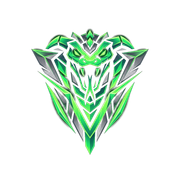
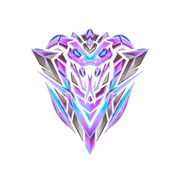
change the color palette

Changed region(s): [[0.1667, 0.1667, 0.8333, 0.8611]]

diff --git a/app/components/home/OrgEmblemHero.tsx b/app/components/home/OrgEmblemHero.tsx
@@ -38,8 +38,8 @@ export default function OrgEmblemHero(): JSX.Element {
         className="pointer-events-none absolute h-[360px] w-[360px] rounded-full opacity-60 blur-[100px] transition-all duration-700 sm:h-[450px] sm:w-[450px]"
         style={{
           background: hovered
-            ? "radial-gradient(circle, rgba(207, 107, 255,0.55) 0%, rgba(217, 70, 239,0.3) 45%, transparent 70%)"
-            : "radial-gradient(circle, rgba(207, 107, 255,0.32) 0%, rgba(217, 70, 239,0.18) 45%, transparent 70%)",
+            ? "radial-gradient(circle, rgba(192, 132, 252,0.55) 0%, rgba(217, 70, 239,0.3) 45%, transparent 70%)"
+            : "radial-gradient(circle, rgba(192, 132, 252,0.32) 0%, rgba(217, 70, 239,0.18) 45%, transparent 70%)",
           transform: `translate(${tilt.x * 0.4}px, ${tilt.y * -0.4}px) scale(${hovered ? 1.15 : 1.0})`,
         }}
       />
@@ -58,7 +58,7 @@ export default function OrgEmblemHero(): JSX.Element {
           aria-hidden
           className={`pointer-events-none absolute h-[330px] w-[330px] rounded-full border border-venom/20 transition-all duration-1000 sm:h-[410px] sm:w-[410px] ${
             hovered
-              ? "scale-110 rotate-90 border-venom/50 shadow-[0_0_35px_rgba(207, 107, 255,0.4)]"
+              ? "scale-110 rotate-90 border-venom/50 shadow-[0_0_35px_rgba(192, 132, 252,0.4)]"
               : "scale-100 rotate-0"
           }`}
         />
@@ -75,8 +75,8 @@ export default function OrgEmblemHero(): JSX.Element {
         <div
           className={`relative h-[310px] w-[310px] sm:h-[390px] sm:w-[390px] transition-all duration-500 ${
             hovered
-              ? "scale-105 drop-shadow-[0_0_45px_rgba(207, 107, 255,0.95)]"
-              : "scale-100 drop-shadow-[0_0_25px_rgba(207, 107, 255,0.6)]"
+              ? "scale-105 drop-shadow-[0_0_45px_rgba(192, 132, 252,0.95)]"
+              : "scale-100 drop-shadow-[0_0_25px_rgba(192, 132, 252,0.6)]"
           }`}
         >
           <Image

diff --git a/app/globals.css b/app/globals.css
@@ -4,12 +4,12 @@
   --background: #0a0713;
   --surface: #14101f;
   --surface-raised: #1b1530;
-  --venom: #a259ff;
-  --venom-bright: #cf6bff;
+  --venom: #a855f7;
+  --venom-bright: #c084fc;
   --toxic: #d946ef;
   --foreground: #f1ecfb;
   --muted: #9b91b0;
-  --line: rgba(162, 89, 255, 0.15);
+  --line: rgba(168, 85, 247, 0.15);
 }
 
 @theme inline {
@@ -34,10 +34,10 @@
 @keyframes pulse-glow {
   0%,
   100% {
-    box-shadow: 0 0 18px rgba(162, 89, 255, 0.25);
+    box-shadow: 0 0 18px rgba(168, 85, 247, 0.25);
   }
   50% {
-    box-shadow: 0 0 34px rgba(162, 89, 255, 0.5);
+    box-shadow: 0 0 34px rgba(168, 85, 247, 0.5);
   }
 }
 
@@ -84,7 +84,7 @@
 
 body {
   background:
-    radial-gradient(ellipse 80% 50% at 50% -20%, rgba(162, 89, 255, 0.08), transparent),
+    radial-gradient(ellipse 80% 50% at 50% -20%, rgba(168, 85, 247, 0.08), transparent),
     radial-gradient(ellipse 60% 40% at 90% 110%, rgba(217, 70, 239, 0.07), transparent),
     var(--background);
   color: var(--foreground);
@@ -92,7 +92,7 @@ body {
 }
 
 ::selection {
-  background: rgba(162, 89, 255, 0.3);
+  background: rgba(168, 85, 247, 0.3);
   color: var(--foreground);
 }
 
@@ -110,7 +110,7 @@ body {
 }
 
 ::-webkit-scrollbar-thumb:hover {
-  background: rgba(162, 89, 255, 0.4);
+  background: rgba(168, 85, 247, 0.4);
 }
 
 @utility clip-notch {
@@ -123,13 +123,13 @@ body {
 
 @utility grid-bg {
   background-image:
-    linear-gradient(rgba(162, 89, 255, 0.04) 1px, transparent 1px),
-    linear-gradient(90deg, rgba(162, 89, 255, 0.04) 1px, transparent 1px);
+    linear-gradient(rgba(168, 85, 247, 0.04) 1px, transparent 1px),
+    linear-gradient(90deg, rgba(168, 85, 247, 0.04) 1px, transparent 1px);
   background-size: 44px 44px;
 }
 
 @utility text-glow {
-  text-shadow: 0 0 22px rgba(162, 89, 255, 0.45);
+  text-shadow: 0 0 22px rgba(168, 85, 247, 0.45);
 }
 
 @media (prefers-reduced-motion: reduce) {

diff --git a/app/components/home/HeroBanner.tsx b/app/components/home/HeroBanner.tsx
@@ -37,7 +37,7 @@ const HeroBanner = (): JSX.Element => {
         className="pointer-events-none absolute top-1/2 left-1/2 h-[580px] w-[580px] -translate-x-1/2 -translate-y-1/2 rounded-full opacity-60 blur-[130px]"
         style={{
           background:
-            "radial-gradient(circle, rgba(162, 89, 255,0.22) 0%, rgba(217, 70, 239,0.14) 50%, transparent 75%)",
+            "radial-gradient(circle, rgba(168, 85, 247,0.22) 0%, rgba(217, 70, 239,0.14) 50%, transparent 75%)",
           transform: `translate(calc(-50% + ${tilt.x * 40}px), calc(-50% + ${tilt.y * 40}px))`,
         }}
       />
@@ -45,7 +45,7 @@ const HeroBanner = (): JSX.Element => {
         aria-hidden
         className="pointer-events-none absolute top-1/4 right-10 h-[420px] w-[420px] rounded-full opacity-40 blur-[110px]"
         style={{
-          background: "radial-gradient(circle, rgba(207, 107, 255,0.22) 0%, transparent 70%)",
+          background: "radial-gradient(circle, rgba(192, 132, 252,0.22) 0%, transparent 70%)",
           transform: `translate(${tilt.x * -25}px, ${tilt.y * -20}px)`,
         }}
       />
@@ -61,7 +61,7 @@ const HeroBanner = (): JSX.Element => {
           }}
         >
           <div className="mb-4 inline-flex items-center gap-3 rounded-full border border-venom/30 bg-surface/70 px-3.5 py-1 backdrop-blur-md">
-            <span className="h-2 w-2 rounded-full bg-venom shadow-[0_0_8px_rgba(207, 107, 255,0.8)]" />
+            <span className="h-2 w-2 rounded-full bg-venom shadow-[0_0_8px_rgba(192, 132, 252,0.8)]" />
             <span className="font-display text-xs font-bold tracking-[0.25em] text-venom uppercase">
               Mobile Legends: Bang Bang Squad
             </span>

diff --git a/app/components/roster/PlayerCard.tsx b/app/components/roster/PlayerCard.tsx
@@ -17,15 +17,15 @@ const PlayerCard = ({ player }: PlayerCardProps): JSX.Element => {
     <TiltCard className="h-full">
       <Link
         href={`/roster/${player.id}`}
-        className="clip-notch group flex h-full flex-col gap-4 bg-surface p-5 ring-1 ring-line transition-shadow duration-300 hover:shadow-[0_0_28px_rgba(162, 89, 255,0.15)]"
+        className="clip-notch group flex h-full flex-col gap-4 bg-surface p-5 ring-1 ring-line transition-shadow duration-300 hover:shadow-[0_0_28px_rgba(168, 85, 247,0.15)]"
       >
         <div className="flex items-start justify-between">
           <div
             className="clip-notch flex h-16 w-16 items-center justify-center font-display text-lg font-black"
             style={{
-              color: player.captain ? "#a259ff" : "#f1ecfb",
+              color: player.captain ? "#a855f7" : "#f1ecfb",
               background: `linear-gradient(135deg, ${player.role === "Jungler" ? "#f43f5e22" : "#d946ef22"}, #14101f)`,
-              boxShadow: `inset 0 0 0 1px rgba(162, 89, 255,0.25)`,
+              boxShadow: `inset 0 0 0 1px rgba(168, 85, 247,0.25)`,
             }}
           >
             {initials}
@@ -55,7 +55,7 @@ const PlayerCard = ({ player }: PlayerCardProps): JSX.Element => {
           </div>
           <div className="h-1.5 w-full overflow-hidden bg-background">
             <div
-              className="h-full bg-gradient-to-r from-venom/60 to-venom shadow-[0_0_8px_rgba(162, 89, 255,0.6)]"
+              className="h-full bg-gradient-to-r from-venom/60 to-venom shadow-[0_0_8px_rgba(168, 85, 247,0.6)]"
               style={{ width: `${player.winRate}%` }}
             />
           </div>

diff --git a/app/components/matches/MatchCard.tsx b/app/components/matches/MatchCard.tsx
@@ -22,13 +22,13 @@ const MatchCard = ({ match }: MatchCardProps): JSX.Element => {
       href={`/matches/${match.id}`}
       className={`clip-notch group relative flex flex-wrap items-center gap-x-5 gap-y-3 bg-surface p-4 ring-1 transition-all duration-300 sm:flex-nowrap ${
         win
-          ? "ring-line hover:shadow-[0_0_24px_rgba(162, 89, 255,0.15)]"
+          ? "ring-line hover:shadow-[0_0_24px_rgba(168, 85, 247,0.15)]"
           : "ring-red-500/20 hover:shadow-[0_0_24px_rgba(244,63,94,0.12)]"
       }`}
     >
       <span
         className={`absolute top-0 left-0 h-full w-0.75 ${win ? "bg-venom" : "bg-red-500"}`}
-        style={{ boxShadow: win ? "0 0 10px rgba(162, 89, 255,0.7)" : "0 0 10px rgba(244,63,94,0.7)" }}
+        style={{ boxShadow: win ? "0 0 10px rgba(168, 85, 247,0.7)" : "0 0 10px rgba(244,63,94,0.7)" }}
       />
 
       <div className="flex min-w-14 flex-col items-center">
@@ -65,7 +65,7 @@ const MatchCard = ({ match }: MatchCardProps): JSX.Element => {
         {mvp && (
           <span
             title={`MVP: ${mvp.ign}`}
-            className="hidden clip-notch-sm bg-venom/10 px-2 py-1 font-display text-[10px] font-bold tracking-widest text-venom uppercase ring-1 ring-venom/30 group-hover:shadow-[0_0_12px_rgba(162, 89, 255,0.4)] sm:block"
+            className="hidden clip-notch-sm bg-venom/10 px-2 py-1 font-display text-[10px] font-bold tracking-widest text-venom uppercase ring-1 ring-venom/30 group-hover:shadow-[0_0_12px_rgba(168, 85, 247,0.4)] sm:block"
           >
             MVP {mvp.ign}
           </span>

diff --git a/app/contact/page.tsx b/app/contact/page.tsx
@@ -60,7 +60,7 @@ export default function ContactPage() {
                 {...(card.action.external
                   ? { target: "_blank", rel: "noopener noreferrer" }
                   : {})}
-                className="clip-notch-sm mt-5 inline-block bg-surface-raised px-4 py-2.5 text-center font-display text-[11px] font-bold tracking-wider text-foreground uppercase ring-1 ring-line transition-all hover:text-venom hover:shadow-[0_0_16px_rgba(162, 89, 255,0.25)] hover:ring-venom/50"
+                className="clip-notch-sm mt-5 inline-block bg-surface-raised px-4 py-2.5 text-center font-display text-[11px] font-bold tracking-wider text-foreground uppercase ring-1 ring-line transition-all hover:text-venom hover:shadow-[0_0_16px_rgba(168, 85, 247,0.25)] hover:ring-venom/50"
               >
                 {card.action.label}
               </a>
@@ -99,7 +99,7 @@ export default function ContactPage() {
                 href={social.href}
                 target="_blank"
                 rel="noopener noreferrer"
-                className="clip-notch group bg-surface p-6 text-center ring-1 ring-line transition-all hover:shadow-[0_0_22px_rgba(162, 89, 255,0.18)] hover:ring-venom/40"
+                className="clip-notch group bg-surface p-6 text-center ring-1 ring-line transition-all hover:shadow-[0_0_22px_rgba(168, 85, 247,0.18)] hover:ring-venom/40"
               >
                 <p className="font-display text-base font-bold tracking-wider uppercase transition-colors group-hover:text-venom">
                   {social.label}

diff --git a/app/matches/[id]/page.tsx b/app/matches/[id]/page.tsx
@@ -89,7 +89,7 @@ export default async function MatchPage(props: PageProps<"/matches/[id]">) {
           {mvp && (
             <Link
               href={`/roster/${mvp.id}`}
-              className="clip-notch group flex items-center gap-4 bg-surface p-5 ring-1 ring-venom/30 transition-shadow hover:shadow-[0_0_24px_rgba(162, 89, 255,0.18)]"
+              className="clip-notch group flex items-center gap-4 bg-surface p-5 ring-1 ring-venom/30 transition-shadow hover:shadow-[0_0_24px_rgba(168, 85, 247,0.18)]"
             >
               <span className="clip-notch-sm flex h-12 w-12 shrink-0 items-center justify-center bg-venom/15 font-display text-base font-black text-venom ring-1 ring-venom/40">
                 MVP
@@ -148,7 +148,7 @@ export default async function MatchPage(props: PageProps<"/matches/[id]">) {
                   {gameMvp && (
                     <Link
                       href={`/roster/${gameMvp.id}`}
-                      className="clip-notch-sm bg-surface-raised px-2 py-1 font-display text-[10px] font-bold tracking-widest text-venom uppercase ring-1 ring-venom/25 transition-shadow hover:shadow-[0_0_10px_rgba(162, 89, 255,0.35)]"
+                      className="clip-notch-sm bg-surface-raised px-2 py-1 font-display text-[10px] font-bold tracking-widest text-venom uppercase ring-1 ring-venom/25 transition-shadow hover:shadow-[0_0_10px_rgba(168, 85, 247,0.35)]"
                     >
                       MVP {gameMvp.ign}
                     </Link>

diff --git a/app/components/gallery/GalleryGrid.tsx b/app/components/gallery/GalleryGrid.tsx
@@ -85,7 +85,7 @@ const GalleryGrid = ({ items }: GalleryGridProps): JSX.Element => {
             onClick={() => setCategory(c)}
             className={`clip-notch-sm px-4 py-2 font-display text-[11px] font-bold tracking-[0.18em] uppercase transition-all duration-300 ${
               category === c
-                ? "bg-venom text-background shadow-[0_0_18px_rgba(162, 89, 255,0.4)]"
+                ? "bg-venom text-background shadow-[0_0_18px_rgba(168, 85, 247,0.4)]"
                 : "bg-surface text-muted ring-1 ring-line hover:text-foreground hover:ring-venom/40"
             }`}
           >
@@ -101,7 +101,7 @@ const GalleryGrid = ({ items }: GalleryGridProps): JSX.Element => {
             type="button"
             onClick={() => setLightbox(i)}
             aria-label={item.caption ?? "Open gallery item"}
-            className={`clip-notch animate-fade-up group relative overflow-hidden ring-1 ring-line transition-shadow duration-300 hover:shadow-[0_0_26px_rgba(162, 89, 255,0.22)] hover:ring-venom/40 ${
+            className={`clip-notch animate-fade-up group relative overflow-hidden ring-1 ring-line transition-shadow duration-300 hover:shadow-[0_0_26px_rgba(168, 85, 247,0.22)] hover:ring-venom/40 ${
               i % 7 === 0 ? "row-span-2" : ""
             } ${i % 5 === 2 ? "sm:col-span-2" : ""}`}
             style={{ animationDelay: `${i * 60}ms` }}

diff --git a/app/page.tsx b/app/page.tsx
@@ -116,7 +116,7 @@ export default function Home() {
               className="absolute inset-0 opacity-60"
               style={{
                 background:
-                  "radial-gradient(ellipse 60% 80% at 50% 120%, rgba(162, 89, 255,0.14), transparent), radial-gradient(ellipse 40% 60% at 85% -10%, rgba(217, 70, 239,0.12), transparent)",
+                  "radial-gradient(ellipse 60% 80% at 50% 120%, rgba(168, 85, 247,0.14), transparent), radial-gradient(ellipse 40% 60% at 85% -10%, rgba(217, 70, 239,0.12), transparent)",
               }}
             />
             <div className="relative">
@@ -134,7 +134,7 @@ export default function Home() {
                     href={social.href}
                     target="_blank"
                     rel="noopener noreferrer"
-                    className="clip-notch-sm bg-surface-raised px-5 py-2.5 font-display text-xs font-bold tracking-wider text-muted uppercase ring-1 ring-line transition-all hover:text-venom hover:shadow-[0_0_16px_rgba(162, 89, 255,0.3)] hover:ring-venom/50"
+                    className="clip-notch-sm bg-surface-raised px-5 py-2.5 font-display text-xs font-bold tracking-wider text-muted uppercase ring-1 ring-line transition-all hover:text-venom hover:shadow-[0_0_16px_rgba(168, 85, 247,0.3)] hover:ring-venom/50"
                   >
                     {social.label}
                   </a>

diff --git a/app/components/layout/Footer.tsx b/app/components/layout/Footer.tsx
@@ -63,7 +63,7 @@ const Footer = (): JSX.Element => {
                 target="_blank"
                 rel="noopener noreferrer"
                 aria-label={social.label}
-                className="clip-notch-sm flex h-10 w-10 items-center justify-center bg-surface text-muted ring-1 ring-line transition-all hover:text-venom hover:shadow-[0_0_16px_rgba(162, 89, 255,0.35)] hover:ring-venom/50"
+                className="clip-notch-sm flex h-10 w-10 items-center justify-center bg-surface text-muted ring-1 ring-line transition-all hover:text-venom hover:shadow-[0_0_16px_rgba(168, 85, 247,0.35)] hover:ring-venom/50"
               >
                 {social.icon}
               </a>
@@ -98,7 +98,7 @@ const Footer = (): JSX.Element => {
           </p>
           <Link
             href="/recruit"
-            className="mt-3 inline-block clip-notch-sm bg-venom px-4 py-2 font-display text-xs font-bold tracking-wider text-background uppercase transition-all hover:shadow-[0_0_22px_rgba(162, 89, 255,0.55)]"
+            className="mt-3 inline-block clip-notch-sm bg-venom px-4 py-2 font-display text-xs font-bold tracking-wider text-background uppercase transition-all hover:shadow-[0_0_22px_rgba(168, 85, 247,0.55)]"
           >
             Try Out
           </Link>

diff --git a/app/components/layout/Navbar.tsx b/app/components/layout/Navbar.tsx
@@ -82,7 +82,7 @@ const Navbar = (): JSX.Element => {
               >
                 {link.label}
                 <span
-                  className={`absolute inset-x-3 -bottom-0.5 h-0.5 origin-left bg-venom shadow-[0_0_8px_rgba(162, 89, 255,0.7)] transition-transform duration-300 ${
+                  className={`absolute inset-x-3 -bottom-0.5 h-0.5 origin-left bg-venom shadow-[0_0_8px_rgba(168, 85, 247,0.7)] transition-transform duration-300 ${
                     isActive(pathname, link.href)
                       ? "scale-x-100"
                       : "scale-x-0 group-hover:scale-x-100"
@@ -144,7 +144,7 @@ const Navbar = (): JSX.Element => {
             href={SITE.discord}
             target="_blank"
             rel="noopener noreferrer"
-            className="clip-notch-sm hidden items-center gap-2 bg-venom px-4 py-2 font-display text-xs font-bold tracking-wider text-background uppercase transition-all hover:shadow-[0_0_22px_rgba(162, 89, 255,0.55)] sm:flex"
+            className="clip-notch-sm hidden items-center gap-2 bg-venom px-4 py-2 font-display text-xs font-bold tracking-wider text-background uppercase transition-all hover:shadow-[0_0_22px_rgba(168, 85, 247,0.55)] sm:flex"
           >
             Join Discord
           </a>

diff --git a/app/components/matches/MatchesList.tsx b/app/components/matches/MatchesList.tsx
@@ -45,7 +45,7 @@ const MatchesList = ({ matches }: MatchesListProps): JSX.Element => {
               onClick={() => setType(t)}
               className={`${chip} ${
                 type === t
-                  ? "bg-venom text-background shadow-[0_0_16px_rgba(162, 89, 255,0.35)]"
+                  ? "bg-venom text-background shadow-[0_0_16px_rgba(168, 85, 247,0.35)]"
                   : "bg-surface text-muted ring-1 ring-line hover:text-foreground"
               }`}
             >
@@ -70,7 +70,7 @@ const MatchesList = ({ matches }: MatchesListProps): JSX.Element => {
                   ? r.key === "loss"
                     ? "bg-red-500 text-white shadow-[0_0_16px_rgba(244,63,94,0.35)]"
                     : r.key === "win"
-                      ? "bg-venom text-background shadow-[0_0_16px_rgba(162, 89, 255,0.35)]"
+                      ? "bg-venom text-background shadow-[0_0_16px_rgba(168, 85, 247,0.35)]"
                       : "bg-surface-raised text-foreground ring-1 ring-venom/50"
                   : "bg-surface text-muted ring-1 ring-line hover:text-foreground"
               }`}
